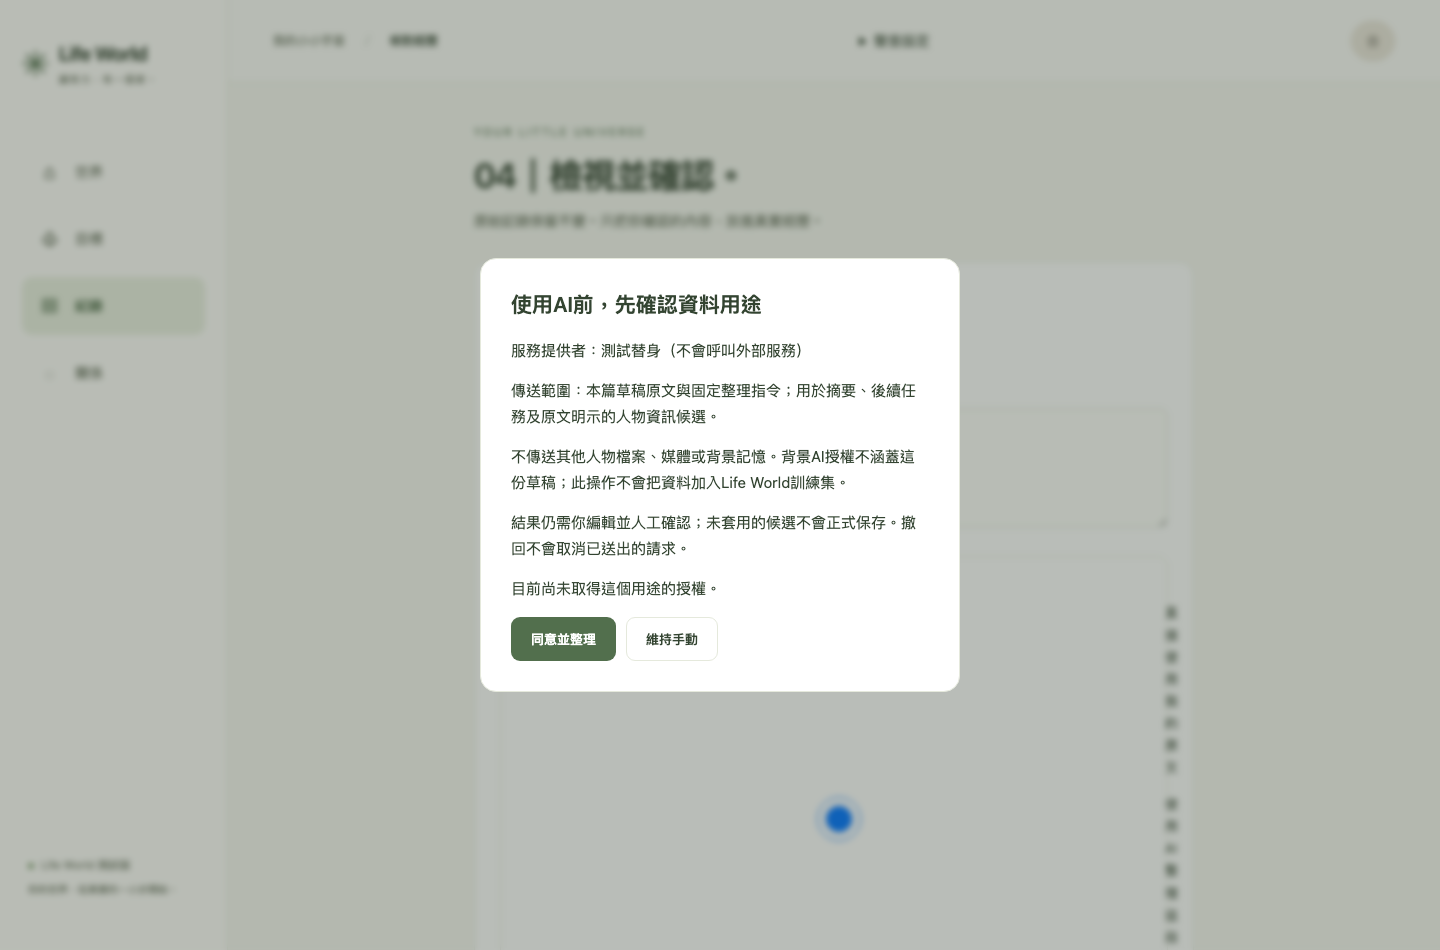
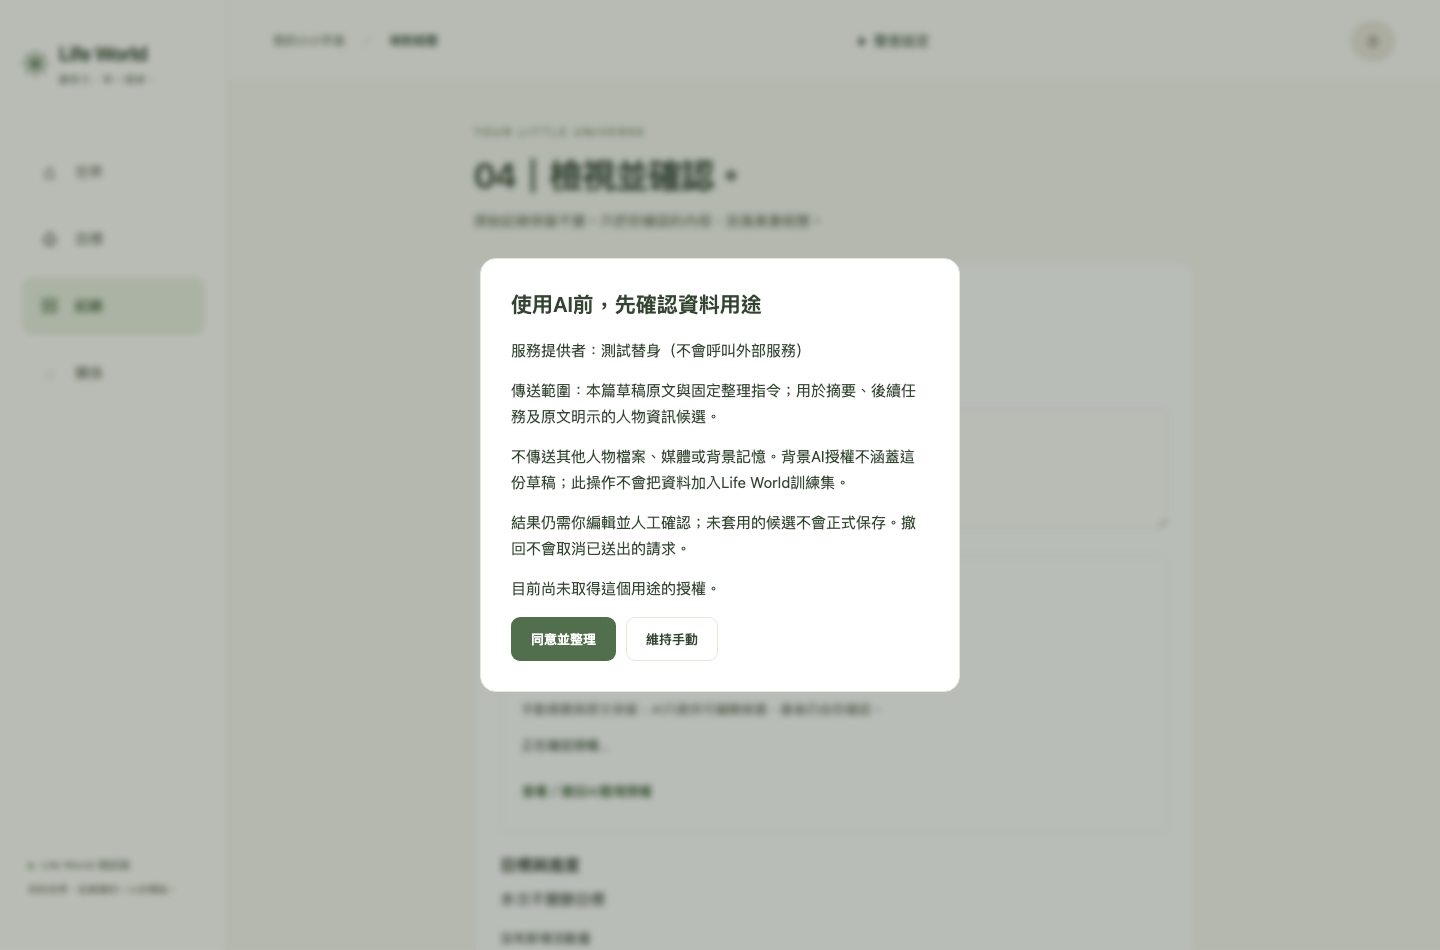
Restore full four-step regression and fix mobile AI choice layout

diff --git a/app/static/styles.css b/app/static/styles.css
@@ -726,3 +726,7 @@ footer{
 
 /* 草稿AI狀態由JS切換；共用inline-flex按鈕不可覆蓋hidden語意。 */
 [data-draft-ai] [hidden]{display:none!important}
+/* AI單選維持小型原生控制項；整行label保留44px觸控範圍，避免擠壓手機文字。 */
+[data-draft-ai]{min-width:0}
+[data-draft-ai] .check-line{min-height:44px;align-items:center;margin:8px 0}
+[data-draft-ai] input[type=radio]{width:18px;height:18px;min-height:18px;padding:0;flex:0 0 18px;margin:0;accent-color:var(--green)}

diff --git a/browser_tests/test_experience_four_steps.py b/browser_tests/test_experience_four_steps.py
@@ -5,7 +5,7 @@ import pytest
 from playwright.sync_api import expect
 from test_journey import BASE, page, onboarding
 
-ART = Path(__file__).parents[1] / 'docs/experience/2026-11-10/screenshots'
+ART = Path(__file__).parents[1] / 'docs/integration/2026-11-11/screenshots/four-step-regression'
 
 
 def setup(page, registered=True):
@@ -26,7 +26,7 @@ def shot(page,name):
     page.screenshot(path=str(ART/name),full_page=True)
 
 
-@pytest.mark.parametrize('width',[390,1440])
+@pytest.mark.parametrize('width',[320,390,1440])
 def test_pending_four_steps_and_choices(page,width):
     page.set_viewport_size({'width':width,'height':900})
     headers=setup(page)
@@ -48,30 +48,44 @@ def test_pending_four_steps_and_choices(page,width):
     page.goto(BASE+'/#record')
     expect(page.locator('#experience-step-title')).to_have_text('記錄經歷')
     page.locator('#raw-text').fill('今天與小安一起讀書，也提到人物甲。')
+    # 合成服務固定時鐘；不使用瀏覽器實際今日，仍保留後端禁止未來經歷的規則。
+    page.locator('#occurred-at').fill('2026-10-27T12:00')
     shot(page,f'{width}-step1.png')
     page.get_by_role('button',name='下一步',exact=True).click()
     expect(page.locator('#experience-step-title')).to_have_text('目標活動數量')
     page.locator('[name=goal_id]').select_option('')
+    shot(page,f'{width}-step2.png')
     page.get_by_role('button',name='下一步',exact=True).click()
     page.get_by_role('button',name='＋ 新增人物',exact=True).click()
-    page.locator('#pending-person-name').fill('小安')
-    page.locator('#pending-person-relation').select_option('interaction')
-    page.locator('[name=story_participant][value="'+p['id']+'"]').check()
+    page.locator('[data-pending-target]').first.locator('[data-target-name]').fill('小安')
+    page.locator('[data-pending-target]').first.locator('[data-target-role]').select_option('interaction')
+    # 新版以逐人卡片明確選角色；維持原測試的共同參與契約，不由原文推論。
+    page.get_by_role('button',name='選擇既有人物',exact=True).click()
+    page.locator('[data-workflow-pick="'+p['id']+'"]').click()
+    page.locator('[data-workflow-person]').first.locator('[data-workflow-role]').select_option('participant')
     page.get_by_role('button',name='上一步',exact=True).click()
     page.get_by_role('button',name='下一步',exact=True).click()
-    expect(page.locator('#pending-person-name')).to_have_value('小安')
+    expect(page.locator('[data-pending-target]').first.locator('[data-target-name]')).to_have_value('小安')
     assert len(page.request.get(BASE+'/api/state').json()['people'])==2
     shot(page,f'{width}-step3.png')
     page.get_by_role('button',name='檢視並確認 →',exact=True).click()
     expect(page.locator('#review-form')).to_be_visible()
-    expect(page.locator('#pending-person-name')).to_have_value('小安')
+    expect(page.locator('[data-pending-target]').first.locator('[data-target-name]')).to_have_value('小安')
     page.locator('#summary').fill('一起閱讀並討論。')
     page.locator('#story-reviewed').check()
     shot(page,f'{width}-step4.png')
-    page.get_by_role('button',name='我已核對，確認保存',exact=True).click()
+    with page.expect_response(lambda r:'/confirm' in r.url and r.request.method=='POST') as completed:
+        page.get_by_role('button',name='我已核對，確認保存',exact=True).click()
+    # 重送瀏覽器實際payload，證明不重複建人或發獎，並非另一份手工契約。
+    original=completed.value
+    repeated=page.request.post(original.url,headers=headers,data=original.request.post_data_json)
+    assert repeated.status==201 and repeated.json()==original.json()
     expect(page.get_by_role('heading',name='收藏每一段真實。')).to_be_visible()
     data=page.request.get(BASE+'/api/state').json()
-    assert len(data['people'])==3 and len(data['experiences'])==1
+    assert len(data['people'])==3 and len(data['experiences'])==1 and len(data['rewards']['events'])==1
+    story=page.request.get(BASE+'/api/connections/stories/'+data['experiences'][0]['id']).json()
+    assert len(story['participants'])==2 and not story['mentions']
+    assert {x['name']:x['interacted'] for x in story['participants']}=={'人物甲':False,'小安':True}
     page.reload()
     expect(page.locator('.record-content')).to_contain_text('一起閱讀並討論。')
     assert page.request.get(BASE+'/api/connections').json()['total']==1
@@ -83,6 +97,8 @@ def test_guest_diary_and_failure_preserves_input(page):
     page.goto(BASE+'/#record')
     expect(page.locator('#media-panel')).to_have_count(0)
     page.locator('#raw-text').fill('今天獨自散步。')
+    # 合成服務固定時鐘；不使用瀏覽器實際今日，仍保留後端禁止未來經歷的規則。
+    page.locator('#occurred-at').fill('2026-10-27T12:00')
     page.get_by_role('button',name='下一步',exact=True).click()
     page.locator('[name=goal_id]').select_option('')
     page.get_by_role('button',name='下一步',exact=True).click()
@@ -102,15 +118,21 @@ def test_cancel_pending_person_leaves_no_orphan(page):
     setup(page)
     page.goto(BASE+'/#record')
     page.locator('#raw-text').fill('還未決定是否保存的經歷。')
+    # 合成服務固定時鐘；不使用瀏覽器實際今日，仍保留後端禁止未來經歷的規則。
+    page.locator('#occurred-at').fill('2026-10-27T12:00')
     page.get_by_role('button',name='下一步',exact=True).click()
     page.get_by_role('button',name='下一步',exact=True).click()
     page.get_by_role('button',name='＋ 新增人物',exact=True).click()
-    page.locator('#pending-person-name').fill('尚未建立的人物')
-    page.locator('#nav').get_by_role('link',name='世界',exact=True).click()
+    page.locator('[data-pending-target]').first.locator('[data-target-name]').fill('尚未建立的人物')
+    page.get_by_role('button',name='離開記錄',exact=True).click()
     page.get_by_role('button',name='繼續編輯',exact=True).click()
-    expect(page.locator('#pending-person-name')).to_have_value('尚未建立的人物')
-    page.locator('#nav').get_by_role('link',name='世界',exact=True).click()
+    expect(page.locator('[data-pending-target]').first.locator('[data-target-name]')).to_have_value('尚未建立的人物')
+    page.get_by_role('button',name='離開記錄',exact=True).click()
     page.get_by_role('button',name='捨棄未保存修改並離開',exact=True).click()
+    # 專注流程的離開入口回到紀錄；恢復全域導覽後仍能返回世界。
+    expect(page.get_by_role('heading',name='收藏每一段真實。')).to_be_visible()
+    expect(page.locator('#nav')).to_be_visible()
+    page.locator('#nav').get_by_role('link',name='世界',exact=True).click()
     expect(page.locator('#world-relationships')).to_be_visible()
     state=page.request.get(BASE+'/api/state').json()
     assert not state['people'] and not state['experiences'] and not state['drafts']
@@ -124,6 +146,8 @@ def test_goal_quantity_and_media_survive_steps(page):
     goal=before['goals'][0];action=goal['actions'][0]
     page.goto(BASE+'/#record')
     page.locator('#raw-text').fill('完成半小時練習，附上合成圖片。')
+    # 合成服務固定時鐘；不使用瀏覽器實際今日，仍保留後端禁止未來經歷的規則。
+    page.locator('#occurred-at').fill('2026-10-27T12:00')
     page.locator('[data-media-file=image]').set_input_files({'name':'synthetic.png','mimeType':'image/png','buffer':PNG})
     expect(page.locator('.media-item')).to_have_count(1)
     page.get_by_role('button',name='下一步',exact=True).click()

diff --git a/browser_tests/test_draft_ai_consent_ui.py b/browser_tests/test_draft_ai_consent_ui.py
@@ -19,8 +19,12 @@ def test_manual_default_first_consent_cancel_and_reuse_keep_candidate_editable(p
     expect(manual).to_be_checked();expect(ai).to_be_enabled()
     expect(page.locator('[data-draft-ai-retry]')).to_be_hidden()
     expect(page.locator('[data-draft-ai-receipts]')).to_be_hidden()
+    # radio不能繼承文字輸入100%寬，否則手機選項文字會逐字直排。
+    bounds=manual.bounding_box();assert bounds and bounds['width']<=24 and bounds['height']<=24
+    assert page.evaluate('document.documentElement.scrollWidth<=innerWidth')
     assert page.request.get(BASE+'/api/ai/usage').json()['calls']==0
     page.locator('#summary').fill('自己編輯的摘要')
+    ART.mkdir(parents=True,exist_ok=True);page.screenshot(path=str(ART/f'{width}-draft-ai-manual.png'),full_page=True)
     ai.check();expect(page.locator('#draft-ai-consent-dialog')).to_be_visible()
     expect(page.locator('#draft-ai-consent-dialog')).to_contain_text('測試替身')
     ART.mkdir(parents=True,exist_ok=True);page.screenshot(path=str(ART/f'{width}-draft-ai-first-consent.png'))

diff --git a/docs/integration/2026-11-11/INTEGRATION_RELEASE_REPORT.md b/docs/integration/2026-11-11/INTEGRATION_RELEASE_REPORT.md
@@ -1,11 +1,12 @@
 # Integration Release Report｜進行中／NO-GO
 
-2026-11-11。分支`integration/pr24-first-unified-schema010-20261111`，[Draft PR #26](https://github.com/asixtw/life-world/pull/26)。本輪基準3797f60；本報告與新增UI變更的精確Head/Tree以PR更新收據為準。沒有Merge、Build、Deploy、正式Migration/GRANT、IAM/Secret或Alpha切流。
+2026-11-11。分支`integration/pr24-first-unified-schema010-20261111`，[Draft PR #26](https://github.com/asixtw/life-world/pull/26)。本輪基準6c9c736；本報告與新增UI變更的精確Head/Tree以PR更新收據為準。沒有Merge、Build、Deploy、正式Migration/GRANT、IAM/Secret或Alpha切流。
 
 ## 最新驗證（不可加總為單一套件）
 
 | 範圍 | 實際結果／證據 |
 |---|---|
+| 本輪四步＋AI授權Chromium（同次，新版隔離服務） | **14 PASS**（四步6＋授權8）；evidence/FOUR_STEP_AND_AI_BROWSER.log；替身非真模型 |
 | 完整本機API及Node suite | **748 PASS、79 SKIP**；evidence/FULL_LOCAL_SUITE.log。專用PG案例在此跳過，並非全綠 |
 | 前一UI階段工作流/精簡人物/用量/世界交換Chromium（前一階段同次） | **66 PASS**（27工作流/預覽＋18草稿/補充＋10精簡選擇＋3用量＋8 GIS替身）；evidence/COMPACT_PEOPLE_BROWSER.log |
 | 最後重複提示文字調整後 | **6 PASS**（三尺寸選擇及補充完整確認），COMPACT_PEOPLE_COPY_BROWSER.log；不與66加總 |
@@ -13,7 +14,7 @@
 | 320/390/1440、長內容/大字/焦點、100人容量 | 已含在上述66項同次執行；WORKFLOW_320_BROWSER.log是早期單項收據 |
 | Google世界交換Chromium | 本次66項內含 **8 PASS**；明示GIS替身，非真Google。GOOGLE_TRANSITION_BROWSER.log另為前次單獨收據 |
 | 受限本機PG18人物/草稿/AI | **45 PASS**；evidence/WORKFLOW_PG18.log，只在marker合成副本，不連CloudSQL |
-| 草稿AI授權專項（本輪） | SQLite **6 PASS**；缺撤回權限的PG額外 **1 PASS**，不與完整套件加總；DRAFT_AI_CONSENT_SCOPE.log、DRAFT_AI_CONSENT_PERMISSION.log |
+| 草稿AI授權專項（前一後端階段） | SQLite **6 PASS**；缺撤回權限的PG額外 **1 PASS**，不與完整套件加總；DRAFT_AI_CONSENT_SCOPE.log、DRAFT_AI_CONSENT_PERMISSION.log |
 | 本人AI用量Chromium | evidence/AI_PERSONAL_USAGE_BROWSER.log：3 PASS；metadata fixture，不是真模型 |
 | 真Google、新GCP整合Revision、真AI/媒體Provider、Safari | **NOT RUN（本輪）** |
 
@@ -146,5 +147,19 @@ LIFEWORLD_INTEGRATION_PG_CONFIG=/private/tmp/lw-integration-pg18-config.json pyt
 ### 本輪額外回歸與明確失敗
 
 - 現行精簡人物/核對草稿/人物詳情/本人用量58項Chromium PASS，AI_CHANGE_WORKFLOW_BROWSER.log（既有8192隔離服務，當輪靜態UI；不是新授權後端驗收）。AI授權8項另在新版8194替身服務測試，不把兩組混為真模型E2E。
-- 另執行較早的test_experience_four_steps.py，390第一例FAIL：等待已被精簡選擇卡取代的#pending-person-name。擴大批次因相同舊定位器重複失敗中斷，再以-x單獨重現1 FAIL，LEGACY_FOUR_STEP_SELECTOR_FAILURE.log。這組舊套件其餘項目NOT RUN；需另行更新選擇器並保留原業務斷言，不刪案例/降低需求，不能標示全部瀏覽器全綠。現行對應行為由上列58項涵蓋，但不冒充舊套件通過。
+- 另執行較早的test_experience_four_steps.py，390第一例FAIL：等待已被精簡選擇卡取代的#pending-person-name。擴大批次因相同舊定位器重複失敗中斷，再以-x單獨重現1 FAIL，LEGACY_FOUR_STEP_SELECTOR_FAILURE.log。該次執行的其餘項目NOT RUN；後續已更新選擇器、固定合成時間與離開目的地，並保留原業務斷言，見下節重新驗證，不刪案例/降低需求。現行對應行為由上列58項涵蓋，但不冒充舊套件通過。
 - 指令：LIFEWORLD_TEST_URL=http://127.0.0.1:8194 python -m pytest browser_tests/test_draft_ai_consent_ui.py -q；PG/root指令沿用本報告先前列法。所有瀏覽器Provider均合成替身。
+
+
+## 四步套件維護與320px AI選項修復（本輪，未發布）
+
+- 更新test_experience_four_steps.py以操作現行逐人卡片、明確角色和「離開記錄」入口；不再操作已移除的單人欄位/隱藏主導覽。離開回紀錄後確認主導覽恢復並可回世界。明確合成發生時間配合固定伺服器日期，不修改禁止未來經歷規則。
+- 保留原先純日記、人物數、交會、目標0.5、影像保留、503後輸入保留、取消不留孤立人物/草稿及一次獎勵斷言；追加讀取真story_detail驗證兩位人物各自interacted，以及重送瀏覽器實際Confirm payload取得相同結果且不重複建人/發獎。320/390/1440四步畫面獨立存放，保留歷史設計包原貌。
+- 視覺檢查另發現AI radio繼承文字框100%寬度，在320px把選項擠成直排；尺寸測試紅燈206×44px。只調整草稿AI區塊為18px原生單選及44px整行觸控範圍，保留既有配色/元件。新測試約束radio尺寸、無水平溢出，並提供手動預設與首次授權畫面。
+- 四步6項先在既有8192服務PASS；局部CSS修正後AI授權8項PASS。最終新版8194服務同次完整結果及指令見下方證據；Provider明示替身，不發外部AI。API/Node748 PASS/79 SKIP與受限PG45 PASS沿用上一程式階段的收據，本輪只有前端CSS/測試變動，不冒稱重新執行後端套件。
+- 舊四步定位器失敗已修復並保留原失敗收據作追溯；不再是現行套件未解阻塞。完整人物基本資料候選與來源/Feature Store/GCP E2E等未完成範圍不變，Owner UX及Code Review未通過；不代表可Merge或Alpha發布。
+
+
+最終同次收據：`LIFEWORLD_TEST_URL=http://127.0.0.1:8194 python -m pytest browser_tests/test_experience_four_steps.py browser_tests/test_draft_ai_consent_ui.py -q --tb=short` → **14 PASS，60.93秒**，evidence/FOUR_STEP_AND_AI_BROWSER.log。草稿AI radio紅燈見DRAFT_AI_RADIO_RED.log。沒有任何Provider外部呼叫或正式資料寫入。
+
+新畫面：[320px第四步](screenshots/four-step-regression/320-step4.png)、[390px第二步](screenshots/four-step-regression/390-step2.png)、[1440px第三步](screenshots/four-step-regression/1440-step3.png)、[390px手動預設](screenshots/390-draft-ai-manual.png)；其餘三尺寸完整四步在[four-step-regression](screenshots/four-step-regression/README.md)。不以截圖或14項PASS宣稱整體UX已核准。

diff --git a/docs/EVOLUTION.md b/docs/EVOLUTION.md
@@ -2,7 +2,7 @@
 
 ## 2026-11-11 PR26整合候選（未部署）
 
-延續多人交易、AI可配置有限預算與本人用量隔離，加入DraftReview摘要/任務及逐人四維候選保存契約；跨Session、Owner隔離、來源失效與回滾已在本機SQLite/PG18驗證。核對頁可保存後重新整理讀回，來源未核對不因保存而解除；第四步四維候選可逐人採用/排除、選證據類型、查看原有事實與來源，最終同Confirm交易保存。第三步已能逐人加入四維候選並保存/核對；僅提及者明確事實來源不再誤當無關，但不增加互動。人物選擇區已改精簡卡片/明確角色與精確來源，保留舊同人多角色與Owner隔離；整體UX仍未核准。草稿AI後端另加入Provider/範圍綁定的可撤回同意，未授權不預留/傳送；缺欄位權限停用，單一手動/AI選擇、首次告知、同意重用/撤回與失敗保留UI已在本機接上；新版候選綁定草稿revision/hash，避免錯套其他版本。完整人物補充UI、UX核准、正式Schema/發布Gate未完成。完整結果與限制見[整合報告](integration/2026-11-11/INTEGRATION_RELEASE_REPORT.md)，不將本機PASS視為Alpha已套用。
+延續多人交易、AI可配置有限預算與本人用量隔離，加入DraftReview摘要/任務及逐人四維候選保存契約；跨Session、Owner隔離、來源失效與回滾已在本機SQLite/PG18驗證。核對頁可保存後重新整理讀回，來源未核對不因保存而解除；第四步四維候選可逐人採用/排除、選證據類型、查看原有事實與來源，最終同Confirm交易保存。第三步已能逐人加入四維候選並保存/核對；僅提及者明確事實來源不再誤當無關，但不增加互動。人物選擇區已改精簡卡片/明確角色與精確來源，保留舊同人多角色與Owner隔離；整體UX仍未核准。草稿AI後端另加入Provider/範圍綁定的可撤回同意，未授權不預留/傳送；缺欄位權限停用，單一手動/AI選擇、首次告知、同意重用/撤回與失敗保留UI已在本機接上；新版候選綁定草稿revision/hash，避免錯套其他版本。四步舊套件已依現行卡片/導覽更新，並補320px AI單選版面檢查；人物基本資料候選UI、UX核准、正式Schema/發布Gate未完成。完整結果與限制見[整合報告](integration/2026-11-11/INTEGRATION_RELEASE_REPORT.md)，不將本機PASS視為Alpha已套用。
 
 ## 2026-11-07 GCP-144 三階段孵化候選
 

diff --git a/docs/integration/2026-11-11/screenshots/four-step-regression/README.md b/docs/integration/2026-11-11/screenshots/four-step-regression/README.md
@@ -1,0 +1,5 @@
+# 四步回歸畫面（合成資料，非設計核准）
+
+來源：browser_tests/test_experience_four_steps.py，320／390／1440px。依序為step1記錄、step2目標、step3人物卡、step4最後核對；person-choices是人物標籤/角色/共同場合複用。
+
+最後同次測試及精確版本見[整合報告](../../INTEGRATION_RELEASE_REPORT.md)。本機SQLite與明示AI替身，沒有Google、Gemini或正式Alpha驗收。截圖不修改歷史設計包，UX仍待Owner核准。
